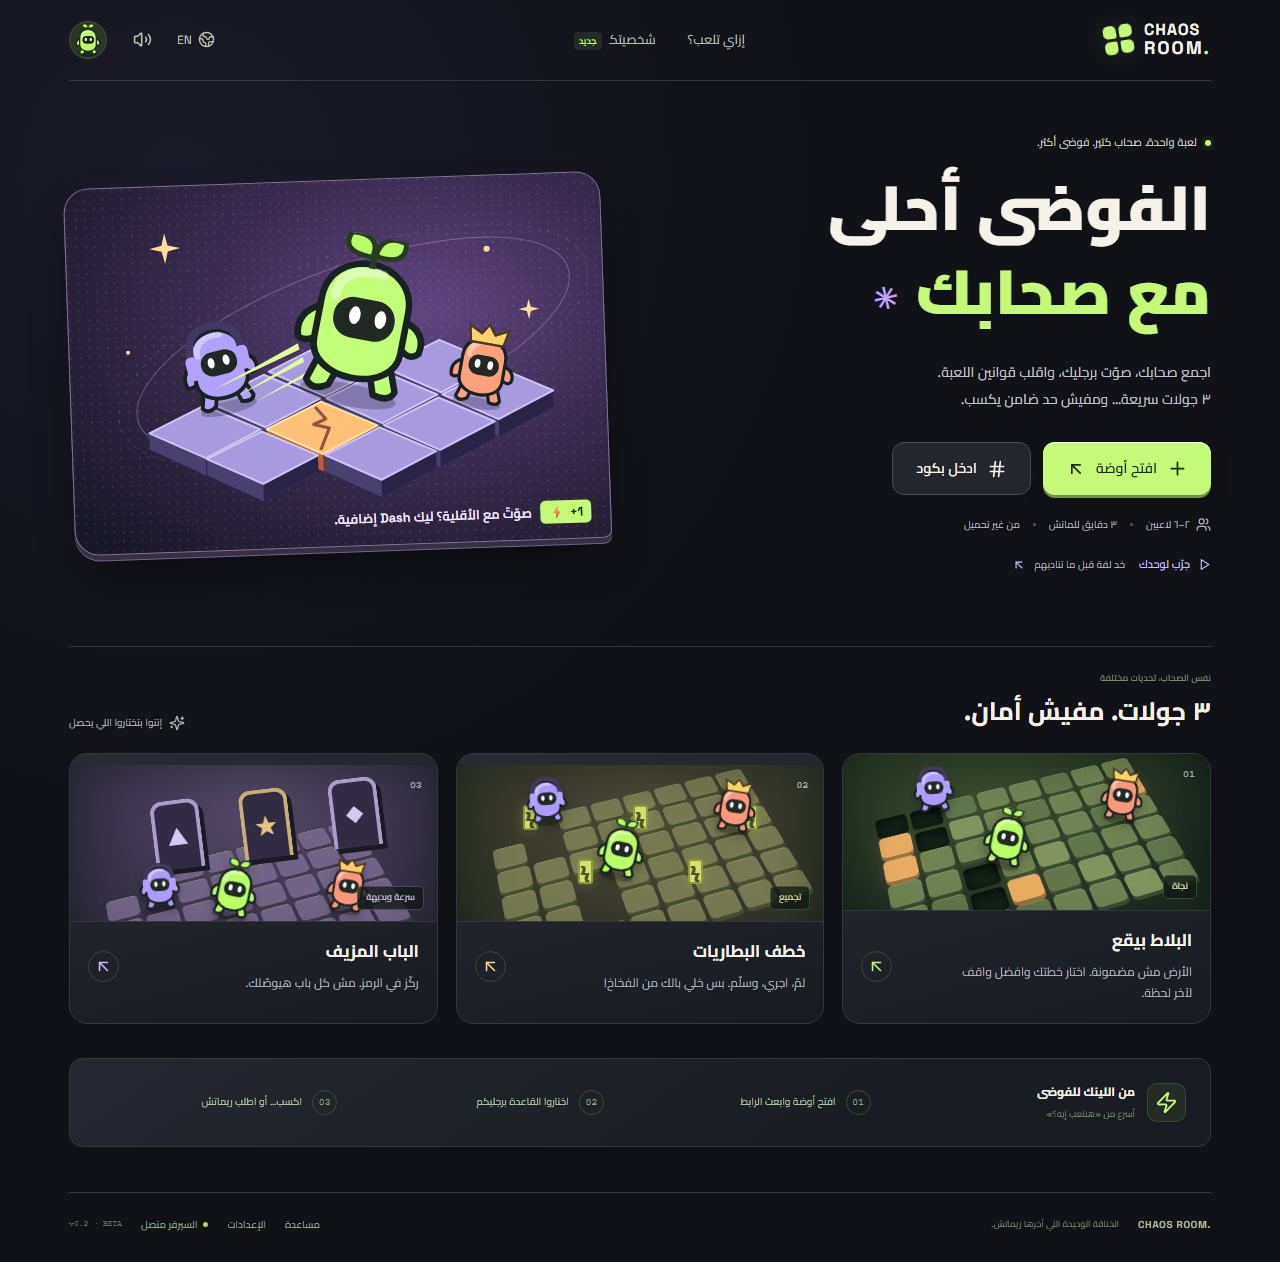
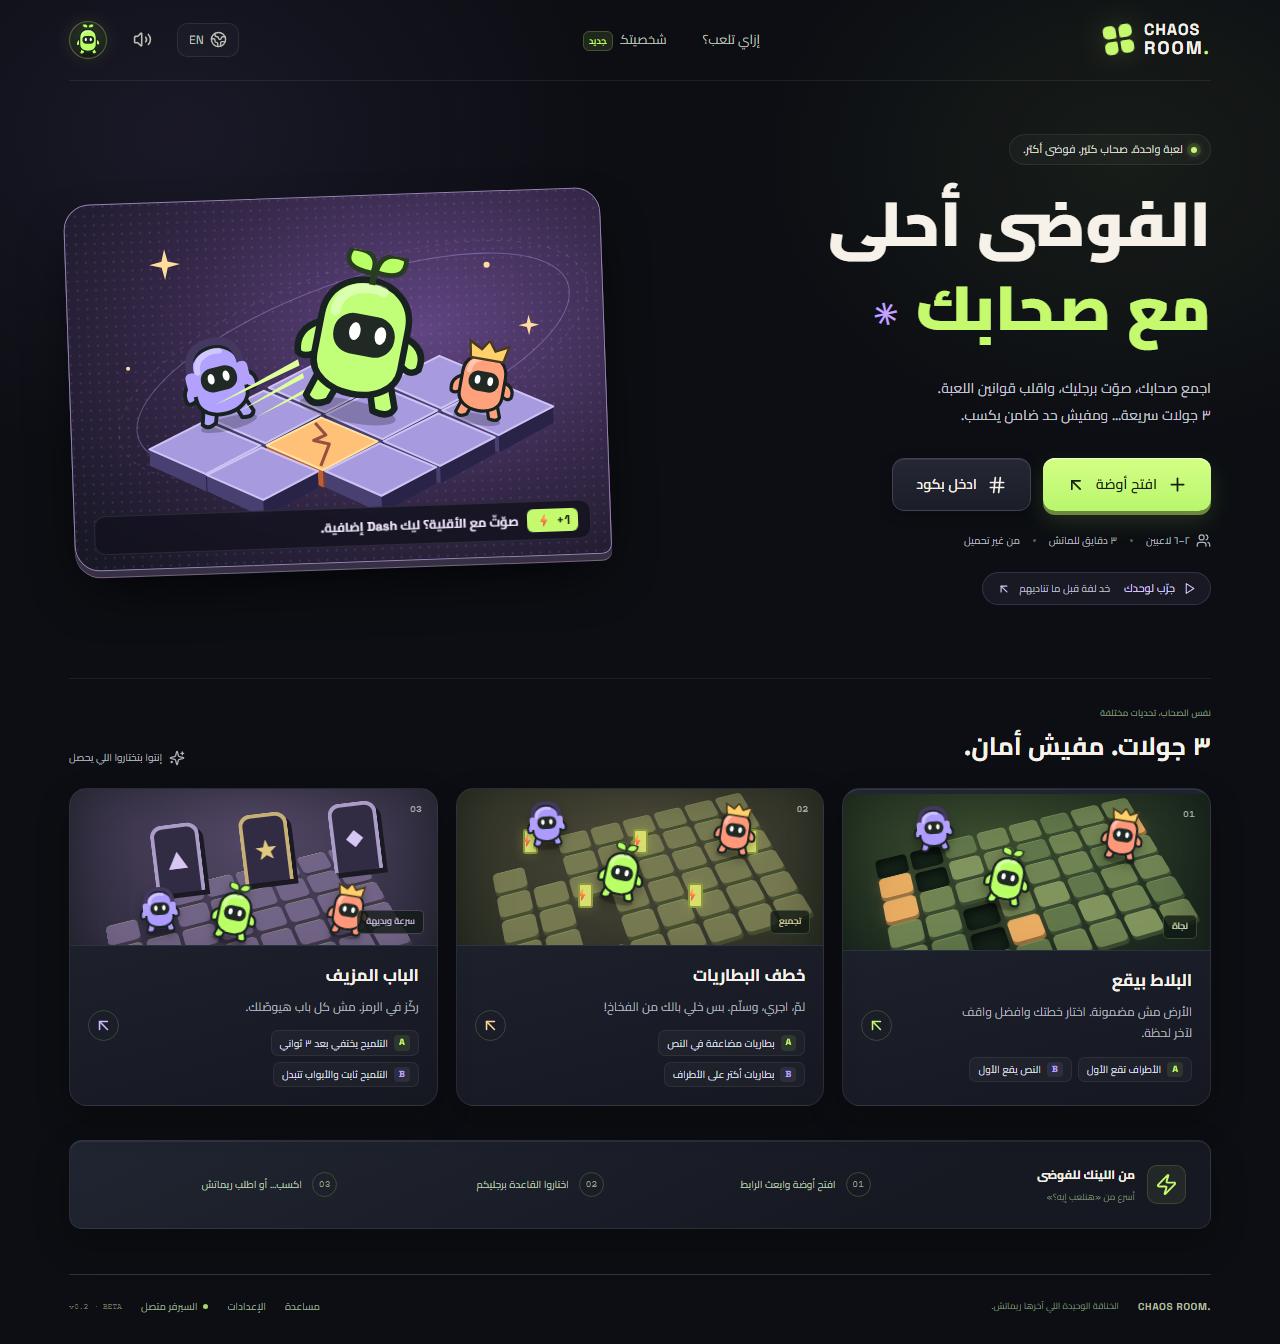
docs: add updated UI and gameplay preview images to README

diff --git a/README.md b/README.md
@@ -2,6 +2,18 @@
 
 A browser party game for 2–6 friends. Move to vote on the next rule; the losing voters earn one extra dash. Arabic first, with English throughout. Three server-authoritative games: falling tiles, battery collection, and symbol doors.
 
+![CHAOS ROOM — Desktop Home](docs/previews/desktop-home.png)
+
+## Screenshots
+
+| Falling Tiles (`البلاط بيقع`) | Battery Bandits (`خطف البطاريات`) |
+| :---: | :---: |
+| ![Falling Tiles Arena](docs/previews/tile-arena.png) | ![Battery Bandits Arena](docs/previews/battery-arena.png) |
+
+| Fake Door (`الباب المزيف`) | Champions Podium (`أبطال الفوضى`) |
+| :---: | :---: |
+| ![Fake Door Arena](docs/previews/door-arena.png) | ![Match Results Podium](docs/previews/match-results.png) |
+
 ## Run locally
 
 Requires Node.js 22.18+ and npm. From the repository root:
